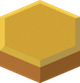
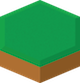
added grass. moved maps to different file. changed maps

diff --git a/resources/public/stylesheets/styles.css b/resources/public/stylesheets/styles.css
@@ -2,4 +2,8 @@ h1 {
     color: red;
 }
 
-#gamefield { border: 1px solid gray; }
+body {
+    overflow: hidden;
+    margin: 0px;
+    background-color: #E3FCFF;
+}
